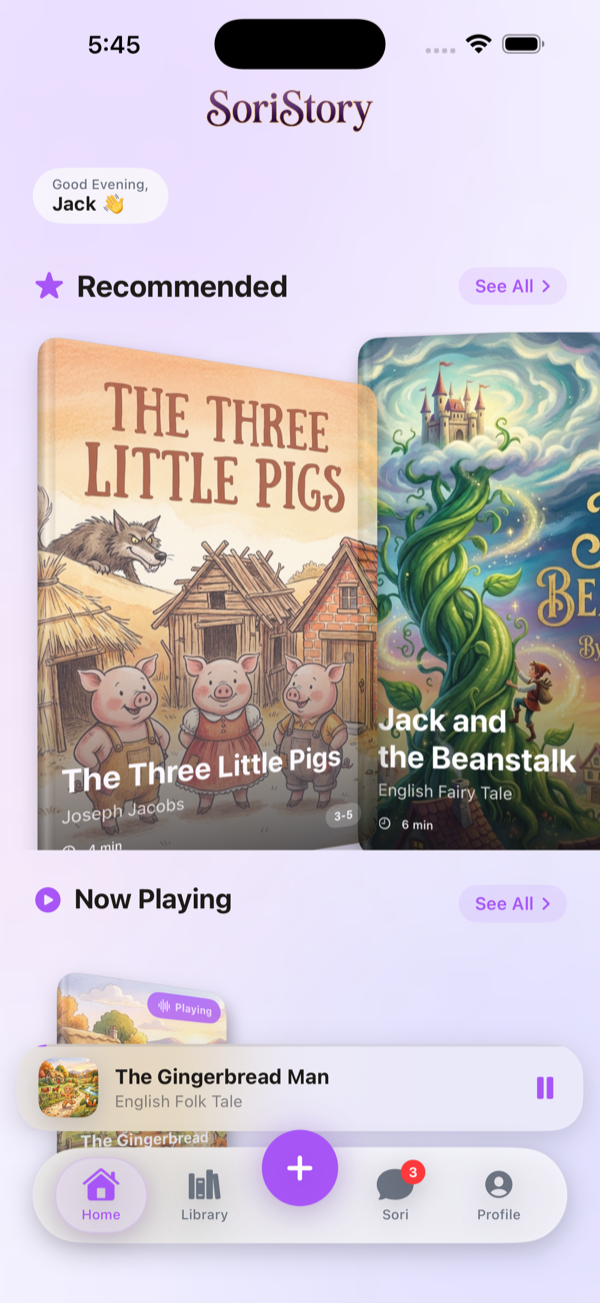
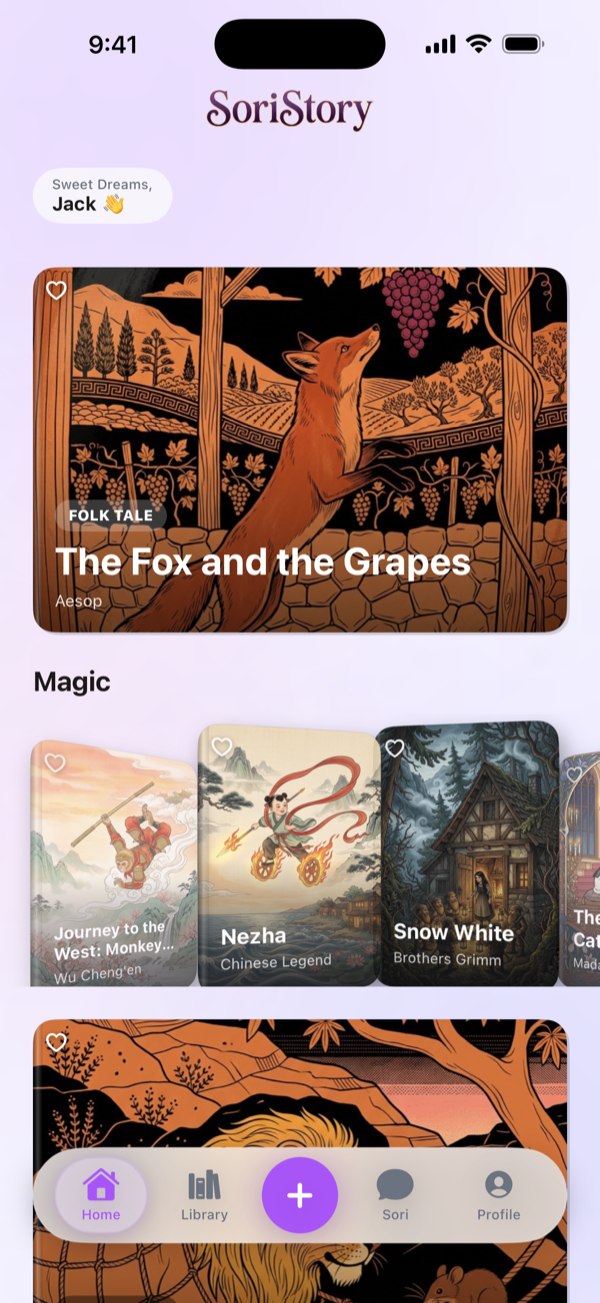
SoriStory shot: current Home feed, and cache-bust the reused filenames
The SoriStory screenshot was from 19 Jun and still showed the pre-redesign Home — a
"Recommended" carousel and a "Now Playing" row, neither of which exists any more.
Replaced with the current magazine feed (hero + themed shelves), captured on an iPhone
17 Pro Max simulator at 1320x2868 and scaled to 600x1303 — byte-identical dimensions to
the file it replaces, so the page layout does not shift.

Also added a ?v= stamp to the three images whose CONTENT changed while their FILENAME
stayed the same: soristory-home, soritoon-reader, and the soritoon logo. They are served
with cache-control max-age=14400, so without a new URL every returning visitor keeps
seeing the old image for four hours — which is exactly what happened here: the new file
was already live and byte-identical on the origin, but the phone still rendered June's
screenshot. sorispeak-prompter.png needs no stamp; it is a new filename.

diff --git a/index.html b/index.html
@@ -193,7 +193,7 @@
       <span class="dots">•••</span>
       <div class="pad">Family stories · iPhone · Android</div>
       <div class="logo"><a href="https://soristory.com" target="_blank" rel="noopener"><img src="assets/logos/soristory.png" alt="SoriStory" /></a></div>
-      <div class="shot phone"><a href="https://soristory.com" target="_blank" rel="noopener"><img src="assets/soristory-home.png" alt="SoriStory home screen" /></a></div>
+      <div class="shot phone"><a href="https://soristory.com" target="_blank" rel="noopener"><img src="assets/soristory-home.png?v=20260725" alt="SoriStory home screen" /></a></div>
       <p class="tag" style="margin-top:10px">Stories worth hearing, in a voice worth remembering.</p>
       <p class="desc">Personalized stories for families — create new tales or adapt folk classics, narrated in a calm voice (or a cloned one you love) across 23 languages.</p>
       <div class="store-badges">
@@ -212,8 +212,8 @@
     <article class="note n-coral t4">
       <span class="dots">&bull;&bull;&bull;</span>
       <div class="pad">AI comics &middot; iPhone &middot; Android</div>
-      <div class="logo"><a href="https://soritoon.com" target="_blank" rel="noopener"><img src="assets/logos/soritoon.png" alt="SoriToon" /></a></div>
-      <div class="shot phone"><a href="https://soritoon.com" target="_blank" rel="noopener"><img src="assets/soritoon-reader.png" alt="SoriToon manga reader" /></a></div>
+      <div class="logo"><a href="https://soritoon.com" target="_blank" rel="noopener"><img src="assets/logos/soritoon.png?v=20260725" alt="SoriToon" /></a></div>
+      <div class="shot phone"><a href="https://soritoon.com" target="_blank" rel="noopener"><img src="assets/soritoon-reader.png?v=20260725" alt="SoriToon manga reader" /></a></div>
       <p class="tag" style="margin-top:10px">Ink your webtoon.</p>
       <p class="desc">Type one line and get a whole comic &mdash; paneled, drawn, and lettered. Eleven art styles, six tones, and a cast that stays consistent as the series grows.</p>
       <div class="meta"><span class="plat">iPhone &middot; Android</span><span class="when">coming soon</span></div>
